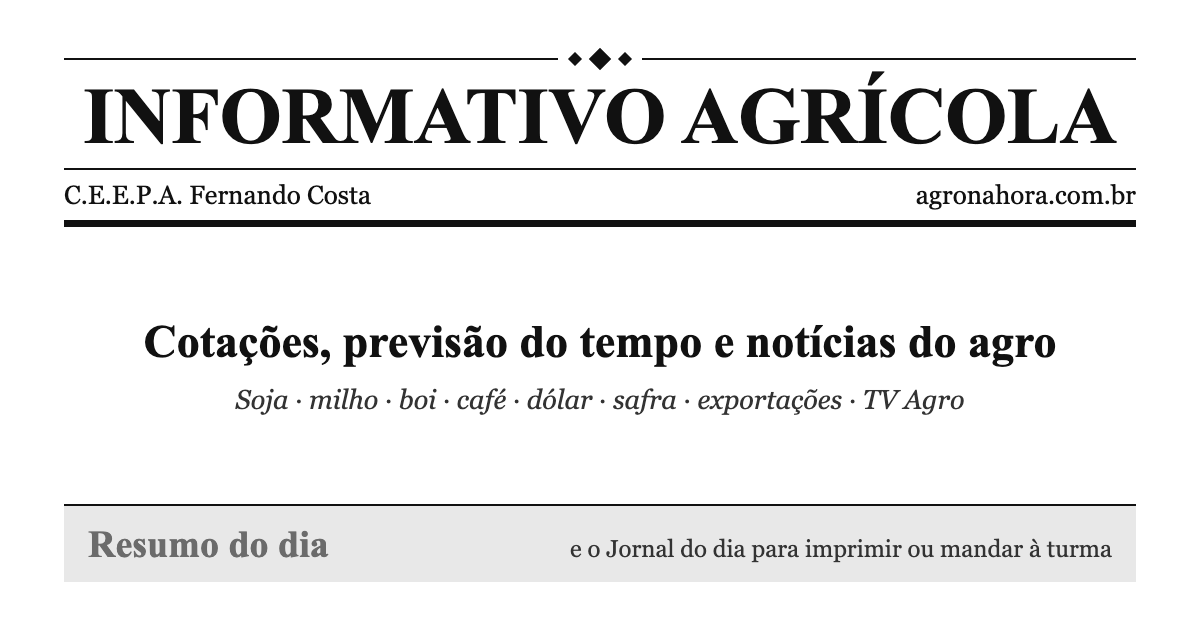
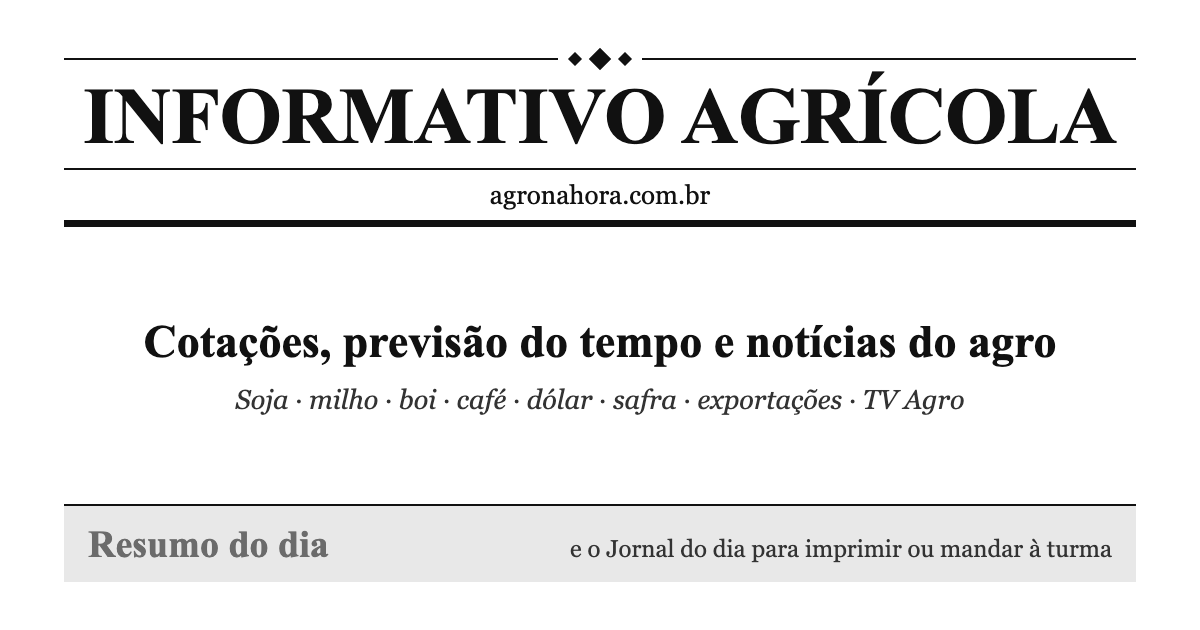
Sem o nome da escola e do docente no site
Saem "C.E.E.P.A. Fernando Costa" e "Docente: Marcel Dancini" do cabeçalho,
do rodapé e da folha do Jornal do dia; a linha sob o título passa a ter só a
data, centralizada. Também saem do título da página, das descrições para o
Google e para as redes, dos dados estruturados, da imagem de prévia, do
README e da identificação que o servidor envia às fontes.

Changed region(s): [[0.0617, 0.2714, 0.3083, 0.3317], [0.74, 0.3016, 0.9558, 0.3317], [0.4008, 0.3016, 0.5858, 0.3317]]

diff --git a/src/App.jsx b/src/App.jsx
@@ -28,7 +28,6 @@ const TvAgro = lazy(() => import("./components/TvAgro"));
 const EvolucaoTab = lazy(() => import("./components/Evolucao"));
 
 const UPDATE_SEC = 60;
-const DOCENTE = "Marcel Dancini";
 // URL do App da Web do assistente (Apps Script, termina em /exec). Passo a passo em apps-script/LEIA-ME.md.
 const ASSISTENTE_URL = import.meta.env.VITE_ASSISTENTE_URL
   || "https://script.google.com/macros/s/AKfycbyDYcrR3XX5bqo0rKCp1c1ZgDHf4GCHsJv7jesNPo5PEtJT6qYMLCyUV6OGmB1ur-jrBA/exec";
@@ -494,16 +493,12 @@ export default function App() {
   return (
     <div className="min-h-screen bg-white print:min-h-0" style={{ color: "#111111" }}>
       {/* Visual de jornal clássico (classe "jornal", regras em src/index.css): cabeçalho como o título de um
-          jornal, com o enfeite, o nome em letras grandes e a linha da escola e da data entre dois fios.
+          jornal, com o enfeite, o nome em letras grandes e a data entre dois fios.
           Na impressão (aba Jornal do dia) sai só o conteúdo: cabeçalho, menu, rodapé, mascote e contador ficam de fora. */}
       <header className="jornal max-w-4xl mx-auto px-3 pt-4 print:hidden">
         <Enfeite />
         <h1 className="text-center font-bold uppercase" style={{ fontSize: "min(64px, 6.9vw)", lineHeight: 1.2, padding: "2px 0 4px" }}>Informativo Agrícola</h1>
-        <div className="flex flex-wrap items-baseline justify-between gap-x-3 py-1.5 text-xs sm:text-sm" style={{ borderTop: "1px solid #111111", borderBottom: "4px solid #111111" }}>
-          <span>C.E.E.P.A. Fernando Costa</span>
-          <span>{dataPorExtenso}</span>
-        </div>
-        <p className="text-center italic pt-1.5 pb-1" style={{ fontSize: 12, color: "#444444" }}>Docente: <strong>{DOCENTE}</strong></p>
+        <div className="py-1.5 text-center text-xs sm:text-sm" style={{ borderTop: "1px solid #111111", borderBottom: "4px solid #111111" }}>{dataPorExtenso}</div>
       </header>
       <nav className="jornal sticky top-0 z-50 bg-white print:hidden" style={{ borderBottom: "1px solid #111111" }}>
         <div className="relative max-w-4xl mx-auto px-3">
@@ -526,7 +521,7 @@ export default function App() {
           <IndicadoresCard indicadores={indicadores} />
         </Inicio>}
         {tab === "jornal" && <Jornal dolar={dolar ?? (dataSource === "indisponivel" ? null : undefined)} variacaoDoDolar={dataSource === "real" ? moedas.find(m => m.id === "usd")?.var : null}
-          moedas={moedas} indicadores={indicadores} docente={DOCENTE} />}
+          moedas={moedas} indicadores={indicadores} />}
         {tab === "bolsas" && <Bolsas key={alvo?.contrato ? alvo.n : "bolsas"} inicial={alvo?.contrato} dolar={dolar}>
           <StockQuotes key={alvo?.acao ? alvo.n : "acoes"} buscaInicial={alvo?.acao} refresh={count} onViewChart={viewChart} onCommodity={termo => irPara({ aba: "cooperativas", buscaCommodity: termo, ancora: "consultar-commodity" })} />
         </Bolsas>}
@@ -546,7 +541,7 @@ export default function App() {
         </Suspense>
       </div>
       <footer className="jornal max-w-4xl mx-auto px-3 print:hidden">
-        <p className="text-center py-3 text-xs" style={{ borderTop: "1px solid #111111", color: "#666666" }}>Informativo Agrícola · C.E.E.P.A. Fernando Costa · Docente: {DOCENTE} · agronahora.com.br</p>
+        <p className="text-center py-3 text-xs" style={{ borderTop: "1px solid #111111", color: "#666666" }}>Informativo Agrícola · agronahora.com.br</p>
       </footer>
       {/* o mascote e o contador continuam com a letra e o visual de antes */}
       <div className="print:hidden" style={{ fontFamily: "system-ui, sans-serif" }}>

diff --git a/src/components/Jornal.jsx b/src/components/Jornal.jsx
@@ -35,7 +35,7 @@ const encurtar = (texto, limite = 110) => (texto.length <= limite ? texto : `${t
 // Trecho do texto corrido, com o assunto em destaque no começo, como nos jornais.
 const Trecho = ({ assunto, children }) => <p style={{ marginBottom: 8 }}><strong className="uppercase" style={{ fontSize: "0.86em", letterSpacing: "0.06em" }}>{assunto} — </strong>{children}</p>;
 
-export default function Jornal({ dolar, variacaoDoDolar, moedas, indicadores, docente }) {
+export default function Jornal({ dolar, variacaoDoDolar, moedas, indicadores }) {
   const { chicago, parana, combustiveis, safra, noticias, mercado, cidade, busca, setBusca, procurar, erroDaBusca,
     sojaNaBolsa, sojaEmReais, daRegiao, diesel, doTempo, hoje, semana, chuva, avisos, noCampo, frases } = useResumoDoDia({ dolar, variacaoDoDolar });
   const [fechamento] = useState(() => new Date()); // a edição leva a data e a hora em que a aba foi aberta
@@ -120,9 +120,8 @@ export default function Jornal({ dolar, variacaoDoDolar, moedas, indicadores, do
           <Enfeite cor={PRETO} />
           {/* tamanho pela largura da folha (cqw), para caber em uma linha também no celular; vw é a reserva dos navegadores antigos */}
           <h2 className="text-center font-bold uppercase text-[length:min(54px,6.4vw)] supports-[width:1cqw]:text-[length:min(54px,7.4cqw)]" style={{ fontFamily: TITULO, lineHeight: 1.2, paddingBottom: 4 }}>Informativo Agrícola</h2>
-          <div className="flex flex-wrap justify-between gap-x-3 py-1.5" style={{ fontSize: 13, borderTop: FIO, borderBottom: `4px solid ${PRETO}` }}>
-            <span>C.E.E.P.A. Fernando Costa</span>
-            <span>{comMaiuscula(fechamento.toLocaleDateString("pt-BR", { weekday: "long", day: "numeric", month: "long", year: "numeric" }))}</span>
+          <div className="py-1.5 text-center" style={{ fontSize: 13, borderTop: FIO, borderBottom: `4px solid ${PRETO}` }}>
+            {comMaiuscula(fechamento.toLocaleDateString("pt-BR", { weekday: "long", day: "numeric", month: "long", year: "numeric" }))}
           </div>
         </header>
 
@@ -202,7 +201,7 @@ export default function Jornal({ dolar, variacaoDoDolar, moedas, indicadores, do
 
         <footer style={{ marginTop: 8, fontSize: 9.5, lineHeight: 1.4, color: "#555", fontFamily: SEM_SERIFA, breakInside: "avoid" }}>
           <p>Fontes: AwesomeAPI (dólar), Yahoo Finance (Chicago, com atraso), DERAL/SEAB-PR (preços e safra), ANP (diesel), Open-Meteo (tempo), Google Notícias e Banco Central. Edição fechada às {fechamento.toLocaleTimeString("pt-BR", { hour: "2-digit", minute: "2-digit" })}.</p>
-          <p>Docente: {docente} · agronahora.com.br</p>
+          <p>agronahora.com.br</p>
         </footer>
       </article>
       </div>

diff --git a/index.html b/index.html
@@ -5,8 +5,8 @@
     <link rel="icon" type="image/svg+xml" href="/favicon.svg" />
     <meta name="viewport" content="width=device-width, initial-scale=1.0" />
     <meta name="google" content="notranslate" />
-    <title>AgroInfo — Cotações agrícolas e mercado futuro | C.E.E.P.A. Fernando Costa</title>
-    <meta name="description" content="Cotações de soja, milho, café e boi, mercado futuro, preços do Paraná (DERAL), notícias do agro e previsão do tempo. Projeto educacional do C.E.E.P.A. Fernando Costa." />
+    <title>AgroInfo — Cotações agrícolas e mercado futuro</title>
+    <meta name="description" content="Cotações de soja, milho, café e boi, mercado futuro, preços do Paraná (DERAL), notícias do agro e previsão do tempo." />
     <link rel="canonical" href="https://agronahora.com.br/" />
     <meta name="google-site-verification" content="pCavliliO4-vewO--OJcdrORq48Gs1mOjiRWwDGgXYU" />
     <meta property="og:type" content="website" />
@@ -14,7 +14,7 @@
     <meta property="og:site_name" content="AgroInfo" />
     <meta property="og:url" content="https://agronahora.com.br/" />
     <meta property="og:title" content="AgroInfo — Cotações agrícolas e mercado futuro" />
-    <meta property="og:description" content="Soja, milho, café, boi, mercado futuro, preços do Paraná e notícias do agro em um só painel. Projeto do C.E.E.P.A. Fernando Costa, Santa Mariana (PR)." />
+    <meta property="og:description" content="Soja, milho, café, boi, mercado futuro, preços do Paraná e notícias do agro em um só painel." />
     <meta property="og:image" content="https://agronahora.com.br/compartilhar.png" />
     <meta property="og:image:type" content="image/png" />
     <meta property="og:image:width" content="1200" />
@@ -28,8 +28,7 @@
         "name": "AgroInfo",
         "url": "https://agronahora.com.br/",
         "inLanguage": "pt-BR",
-        "description": "Painel educacional de cotações agrícolas, mercado futuro, notícias do agro e previsão do tempo.",
-        "publisher": { "@type": "EducationalOrganization", "name": "C.E.E.P.A. Fernando Costa", "address": { "@type": "PostalAddress", "addressLocality": "Santa Mariana", "addressRegion": "PR", "addressCountry": "BR" } }
+        "description": "Painel de cotações agrícolas, mercado futuro, notícias do agro e previsão do tempo."
       }
     </script>
   </head>

diff --git a/scripts/compartilhar.html b/scripts/compartilhar.html
@@ -18,7 +18,7 @@
 </style></head><body>
   <div class="enfeite"><span class="fio"></span><span class="losango"></span><span class="losango grande"></span><span class="losango"></span><span class="fio"></span></div>
   <h1>INFORMATIVO AGRÍCOLA</h1>
-  <div class="linha"><span>C.E.E.P.A. Fernando Costa</span><span>agronahora.com.br</span></div>
+  <div class="linha" style="justify-content: center"><span>agronahora.com.br</span></div>
   <div class="meio"><h2>Cotações, previsão do tempo e notícias do agro</h2>
   <p>Soja · milho · boi · café · dólar · safra · exportações · TV Agro</p></div>
   <div class="cinza"><strong>Resumo do dia</strong><span>e o Jornal do dia para imprimir ou mandar à turma</span></div>

diff --git a/server/combustiveis.js b/server/combustiveis.js
@@ -4,7 +4,7 @@
 import lerPlanilha from 'read-excel-file/node';
 
 const PAGINA_ANP = 'https://www.gov.br/anp/pt-br/assuntos/precos-e-defesa-da-concorrencia/precos/levantamento-de-precos-de-combustiveis-ultimas-semanas-pesquisadas';
-const UA_AGROINFO = 'Mozilla/5.0 (compatible; AgroInfo-CEEPA/1.0; +https://agronahora.com.br)';
+const UA_AGROINFO = 'Mozilla/5.0 (compatible; AgroInfo/1.0; +https://agronahora.com.br)';
 // produto na planilha → nome mostrado, na ordem do card
 const PRODUTOS = [['OLEO DIESEL S10', 'Diesel S10'], ['OLEO DIESEL', 'Diesel comum (S500)'], ['GASOLINA COMUM', 'Gasolina comum'], ['ETANOL HIDRATADO', 'Etanol']];
 const ESTADO = 'PARANA';

diff --git a/server/safra.js b/server/safra.js
@@ -4,7 +4,7 @@
 import lerPlanilha from 'read-excel-file/node';
 
 const PLANILHA_DERAL = 'https://www.agricultura.pr.gov.br/system/files/publico/Safras/pss.xlsx';
-const UA_AGROINFO = 'Mozilla/5.0 (compatible; AgroInfo-CEEPA/1.0; +https://agronahora.com.br)';
+const UA_AGROINFO = 'Mozilla/5.0 (compatible; AgroInfo/1.0; +https://agronahora.com.br)';
 const REGIAO_DA_ESCOLA = 'CORNÉLIO PROCÓPIO';
 const CULTURAS = ['SOJA (1ª SAFRA)', 'MILHO (1ª SAFRA)', 'MILHO (2ª SAFRA)', 'TRIGO', 'FEIJÃO (1ª SAFRA)', 'FEIJÃO (2ª SAFRA)', 'CAFÉ', 'CANA-DE-AÇÚCAR', 'MANDIOCA', 'CEVADA'];
 const SAFRAS_NA_TABELA = 10;

diff --git a/api/market.js b/api/market.js
@@ -333,7 +333,7 @@ export default async function handler(req, res) {
 // ---------------------------------------------------------------- Paraná (DERAL/SEAB)
 
 const DERAL = 'https://www.agricultura.pr.gov.br';
-const UA_AGROINFO = 'Mozilla/5.0 (compatible; AgroInfo-CEEPA/1.0; +https://agronahora.com.br)';
+const UA_AGROINFO = 'Mozilla/5.0 (compatible; AgroInfo/1.0; +https://agronahora.com.br)';
 
 async function buscar(url, comoArquivo = false) {
   const response = await fetch(url, { signal: AbortSignal.timeout(15000), headers: { 'User-Agent': UA_AGROINFO } });

diff --git a/server/tv.js b/server/tv.js
@@ -6,7 +6,7 @@
 // transmissão aberta, como o Canal Rural, e às vezes chega sem a transmissão pronta).
 import { CANAIS_AGRO } from '../src/canaisAgro.js';
 
-const UA_AGROINFO = 'Mozilla/5.0 (compatible; AgroInfo-CEEPA/1.0; +https://agronahora.com.br)';
+const UA_AGROINFO = 'Mozilla/5.0 (compatible; AgroInfo/1.0; +https://agronahora.com.br)';
 const DADOS_DO_PLAYER = 'ytInitialPlayerResponse = ';
 
 // O objeto JSON que começa em `inicio`, lido até a chave que o fecha (chaves dentro de texto não contam).

diff --git a/server/exportacoes.js b/server/exportacoes.js
@@ -6,7 +6,7 @@
 import { PAISES } from '../src/paises.js';
 
 const COMEX = 'https://api-comexstat.mdic.gov.br/general?language=pt';
-const UA_AGROINFO = 'Mozilla/5.0 (compatible; AgroInfo-CEEPA/1.0; +https://agronahora.com.br)';
+const UA_AGROINFO = 'Mozilla/5.0 (compatible; AgroInfo/1.0; +https://agronahora.com.br)';
 
 // Posições do Sistema Harmonizado (4 dígitos) de cada produto, na ordem em que aparecem na aba.
 export const PRODUTOS_EXPORTADOS = [

diff --git a/scripts/historico-cepea.py b/scripts/historico-cepea.py
@@ -15,7 +15,7 @@ SERIES = {  # chave da tabela → (endereço da planilha no CEPEA, nome do indic
     "trigo": ("trigo.aspx?id=178", "Preço médio do trigo CEPEA/ESALQ, Paraná", "R$/tonelada"),
 }
 PRIMEIRO_ANO = 2020
-UA = "Mozilla/5.0 (compatible; AgroInfo-CEEPA/1.0; +https://agronahora.com.br)"
+UA = "Mozilla/5.0 (compatible; AgroInfo/1.0; +https://agronahora.com.br)"
 DESTINO = pathlib.Path(__file__).resolve().parent.parent / "src" / "historicoCepea.json"
 
 

diff --git a/README.md b/README.md
@@ -4,7 +4,7 @@
 
 O endereço antigo, `agroinfo-dashboard.vercel.app`, e o `www.agronahora.com.br` redirecionam para `agronahora.com.br` (regras em `vercel.json`). As chamadas `/api` no endereço antigo continuam respondendo sem redirecionar. A chave do contador de visitantes (`src/components/VisitorCounter.jsx`) mantém o nome antigo de propósito, para a contagem não zerar.
 
-Painel educacional gratuito do **C.E.E.P.A. Fernando Costa** (Santa Mariana, PR) para alunos e produtores acompanharem o mercado agrícola:
+Painel gratuito para estudantes e produtores acompanharem o mercado agrícola:
 
 - **Link direto para cada aba:** o endereço muda com a aba (`…/#tv`, `…/#exportacoes`, `…/#clima`), então dá para mandar o link de uma aba e usar o botão "voltar" do navegador entre elas.
 - **Busca no topo:** digite um produto, moeda, termo ou dúvida (ex.: "soja", "porco", "dólar", "o que é hedge") e vá direto à cotação, ao gráfico, ao glossário, às notícias ou ao Castor.
@@ -23,7 +23,6 @@ Painel educacional gratuito do **C.E.E.P.A. Fernando Costa** (Santa Mariana, PR)
 - **Glossário** com os termos do mercado.
 - **Castor:** assistente que responde dúvidas dos alunos sobre o mercado.
 
-Docente: Marcel Dancini.
 
 ---
 
@@ -43,7 +42,7 @@ Fontes: https://dadosabertos.bcb.gov.br/dataset/432-taxa-de-juros---meta-selic-d
 
 ## Visual de jornal
 
-- O site inteiro segue o modelo de jornal clássico em preto e branco: cabeçalho com o enfeite (`src/components/Enfeite.jsx`), o nome em letras grandes e a linha da escola e da data entre dois fios; texto com serifa; cantos retos, sem sombra, e um fio preto no alto de cada quadro. As regras ficam em `src/index.css`, na classe `jornal`, que o `App.jsx` põe no cabeçalho, no menu, nas abas e no rodapé.
+- O site inteiro segue o modelo de jornal clássico em preto e branco: cabeçalho com o enfeite (`src/components/Enfeite.jsx`), o nome em letras grandes e a data entre dois fios; texto com serifa; cantos retos, sem sombra, e um fio preto no alto de cada quadro. As regras ficam em `src/index.css`, na classe `jornal`, que o `App.jsx` põe no cabeçalho, no menu, nas abas e no rodapé.
 - A cor ficou só onde tem significado: alta em verde e queda em vermelho, avisos de risco em vermelho, o selo "ao vivo" da TV e os gráficos com várias linhas, que precisam de cores para separar uma da outra. O mapa de preços das Cotações Cooperativas usa tons de cinza (preto paga mais, cinza-claro paga menos).
 - O mascote (Castor) e o contador de visitantes ficam fora da classe `jornal` e mantêm o visual próprio.
 - A prévia que aparece quando alguém manda o link (WhatsApp, redes sociais) é `public/compartilhar.png`, feita a partir de `scripts/compartilhar.html`.
